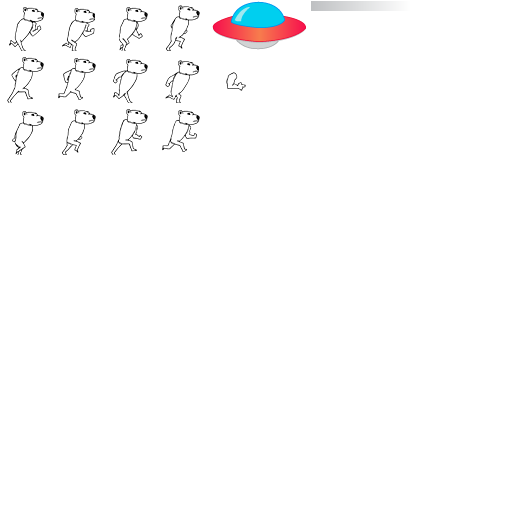
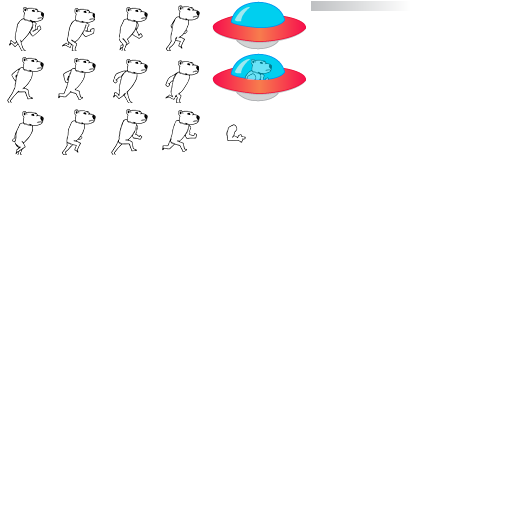
UFO now draws with player in it

Changed region(s): [[0.4062, 0.0938, 0.5938, 0.2188], [0.4375, 0.25, 0.4688, 0.2812]]

diff --git a/src/UFO.cpp b/src/UFO.cpp
@@ -124,8 +124,11 @@ void UFO::updateInput(KeyHandler* mKeyH, MouseHandler* mMouseH){
 }
 
 // Draw UFO
-void UFO::draw(GLHandler* mgl, PlayerAtlas* mGame){
-	mGame->draw(mgl, UFO_FRAME, locX,locY,1.0f,0,originX, originY);
+void UFO::draw(GLHandler* mgl, PlayerAtlas* mGame, bool inUFO){
+	if (inUFO)
+		mGame->draw(mgl, UFO_BEAR_FRAME, locX,locY,1.0f,0,originX, originY);
+	else 
+		mGame->draw(mgl, UFO_FRAME, locX,locY,1.0f,0,originX, originY);
 }
 
 // Apply damage to the ship 

diff --git a/src/PlayerAtlas.cpp b/src/PlayerAtlas.cpp
@@ -30,10 +30,12 @@ void PlayerAtlas::load(){
 
 	// UFO
 	vcg->addFrame(209.0f,1.0f,100.0f,50.0f);
+	// UFO Bear
+	vcg->addFrame(209.0f,52.0f, 100.0f, 50.0f);
 	// Health bar
 	vcg->addFrame(311.0f,1.0f,100.0f,10.0f);
 	// Player arm
-	vcg->addFrame(208.0f, 52.0f, 50.0f,50.0f);
+	vcg->addFrame(208.0f, 104.0f, 50.0f,50.0f);
 
 	// Grab the arrays 
 	verts = vcg->getVertices();

diff --git a/src/UFO.h b/src/UFO.h
@@ -69,7 +69,7 @@ public:
 	void updateInput(KeyHandler* mKeyH, MouseHandler* mMouseH);
 
 	// Draw UFO
-	void draw(GLHandler* mgl, PlayerAtlas* mGame);
+	void draw(GLHandler* mgl, PlayerAtlas* mGame, bool inUFO);
 
 	// Apply damage to the ship 
 	void applyDamage(float damage);

diff --git a/src/PlayerAtlas.h b/src/PlayerAtlas.h
@@ -17,8 +17,9 @@
 #define PLAYER_RUN_FRAME10 10
 #define PLAYER_RUN_FRAME11 11
 #define UFO_FRAME 12
-#define PI_HEALTH_BAR 13
-#define PI_PLAYER_ARM 14
+#define UFO_BEAR_FRAME 13
+#define PI_HEALTH_BAR 14
+#define PI_PLAYER_ARM 15
 
 class PlayerAtlas : public TextureAtlas
 {

diff --git a/src/Player.cpp b/src/Player.cpp
@@ -507,7 +507,7 @@ void Player::draw(GLHandler* mgl){
 	playerAtlas.bindBuffers(mgl);
 	playerAtlas.bindTextureFast(mgl);
 
-	ufo->draw(mgl, &playerAtlas);
+	ufo->draw(mgl, &playerAtlas, inUFO);
 	
 	if (!inUFO){
 		// Draw player
